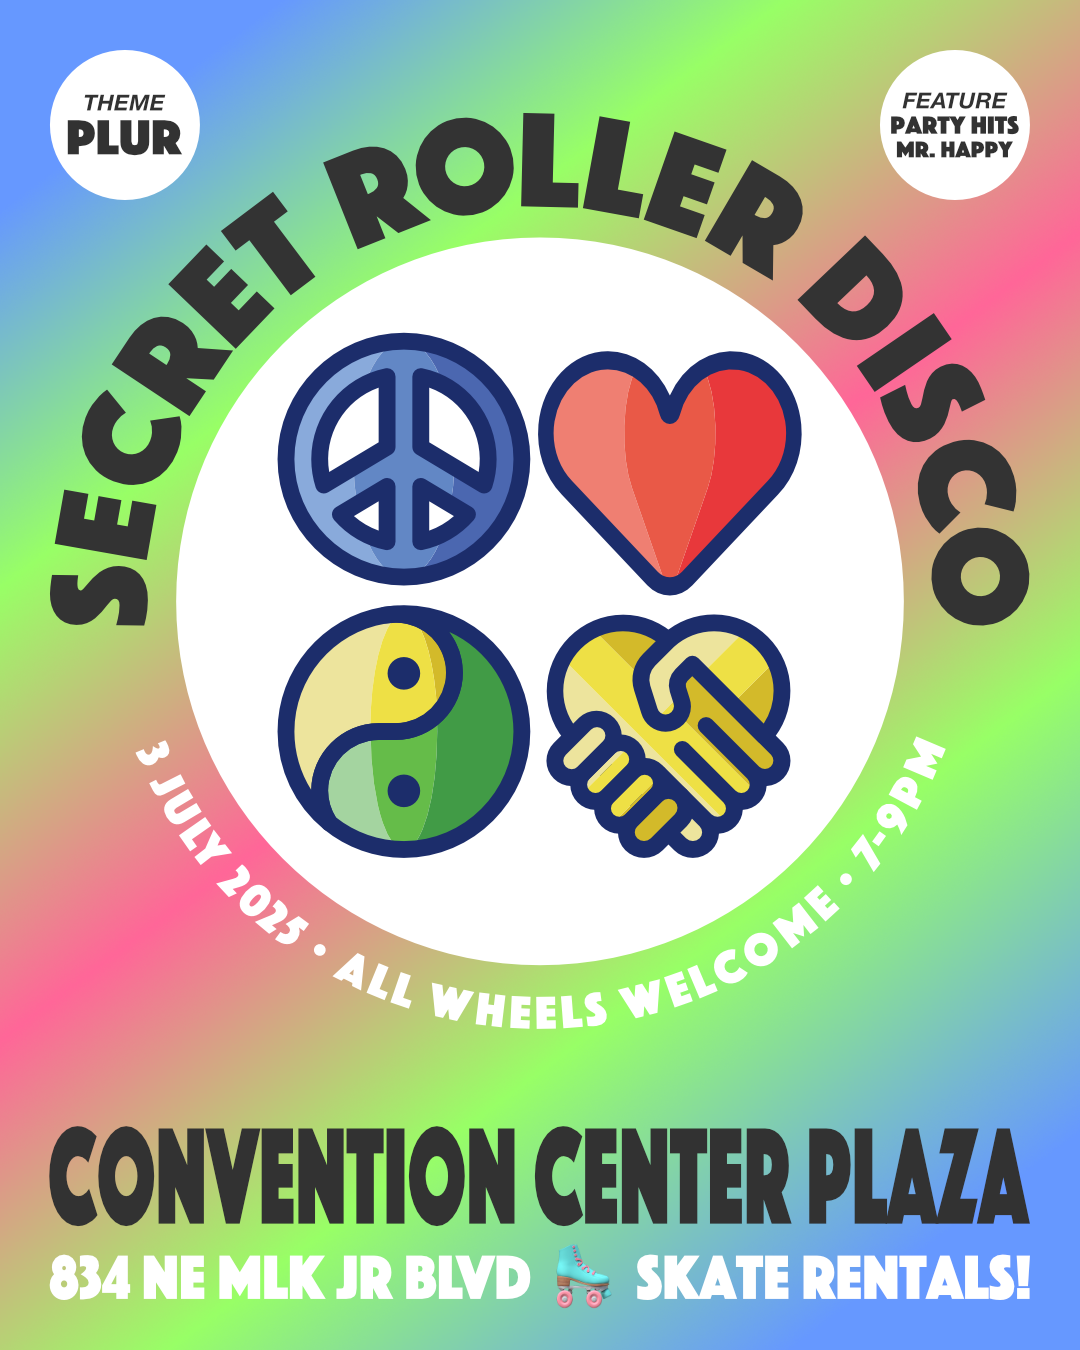
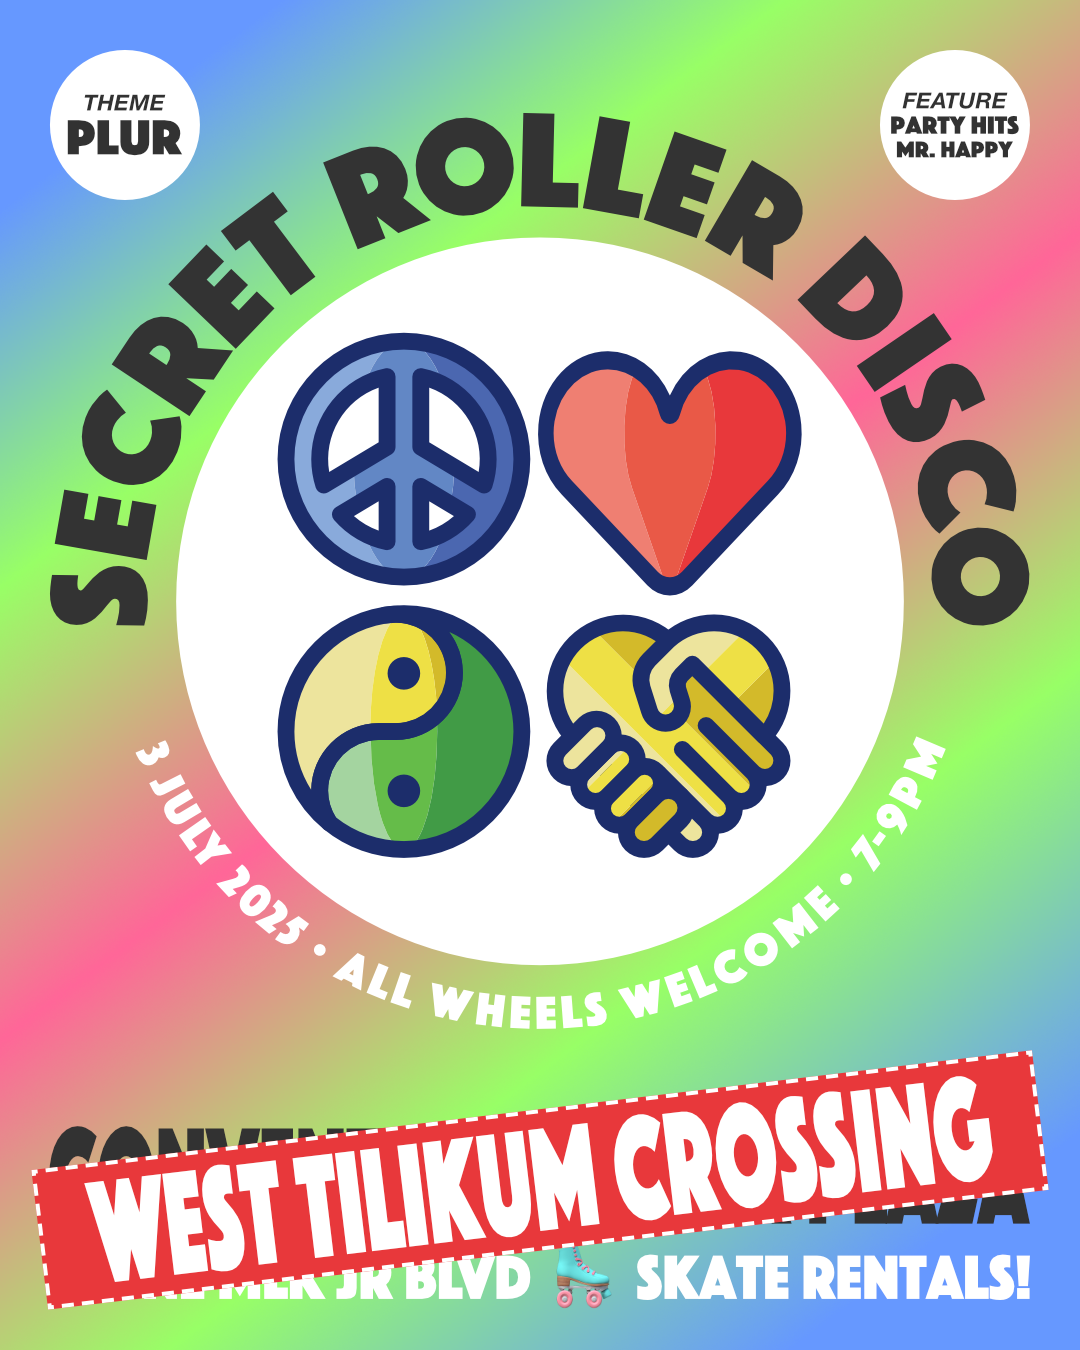
last minute location change for 2025-07-03

Changed region(s): [[0.0306, 0.7778, 0.9778, 0.9644]]

diff --git a/_posts/2025-07-03-bond-ave.md b/_posts/2025-07-03-bond-ave.md
@@ -8,6 +8,6 @@ djs:
     link: https://www.instagram.com/partyhits_
   - name: Mr. Happy
     link: https://www.instagram.com/mr.happypdx
-alt:
+alt: <b>ATTN! ATTN! LOCATION CHANGE!</b><br/> New location is the West Tilikum Crossing!<br/>South Bond Ave and South Meade St.
 map:
 ---
